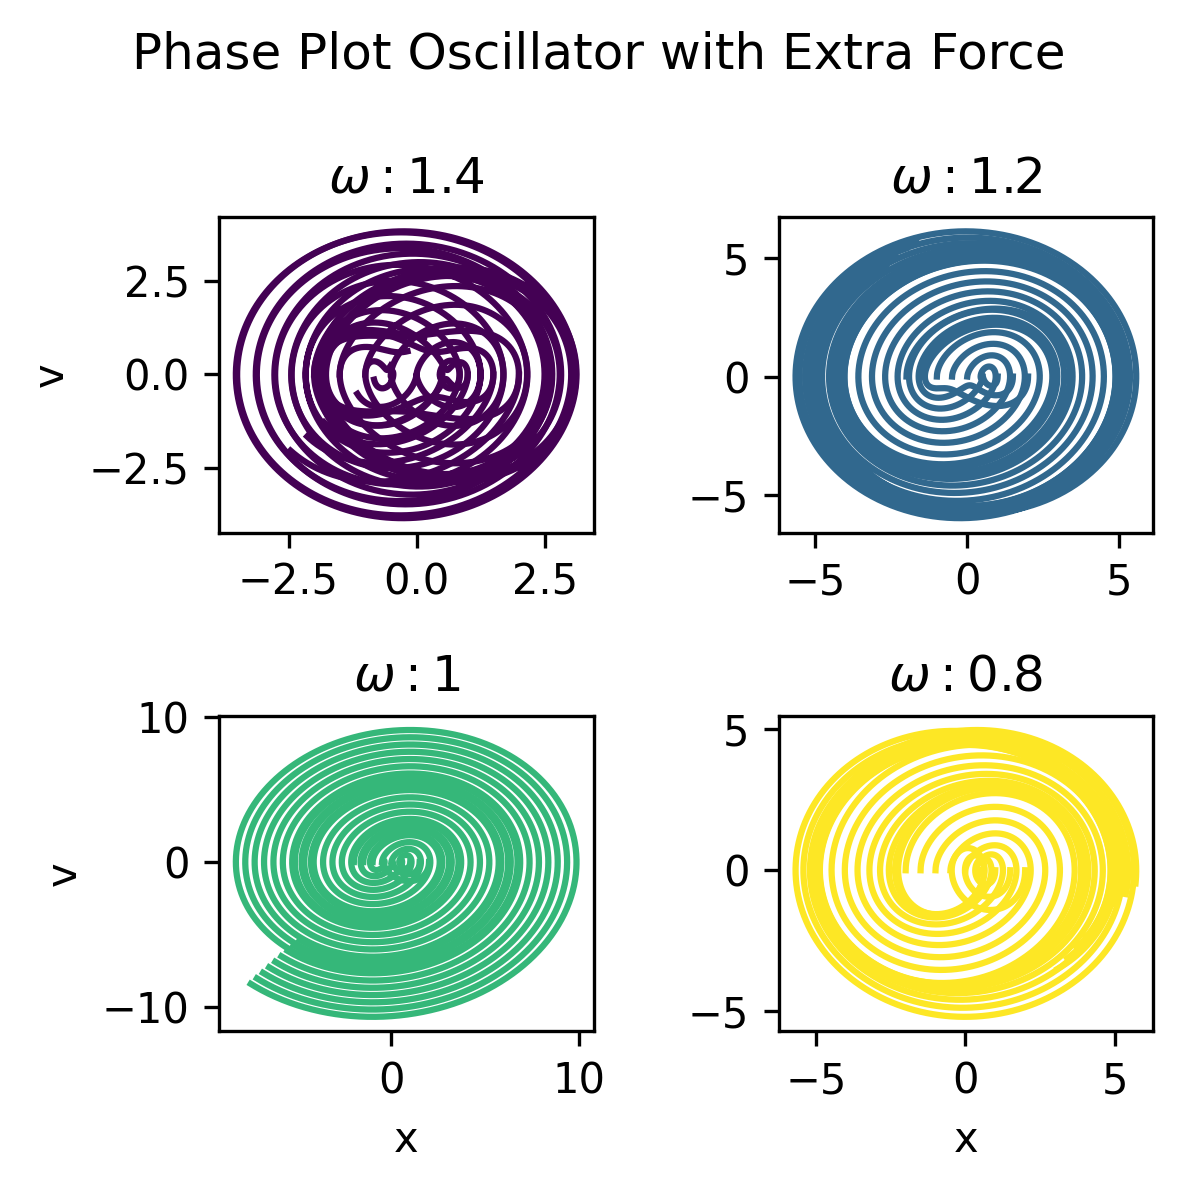
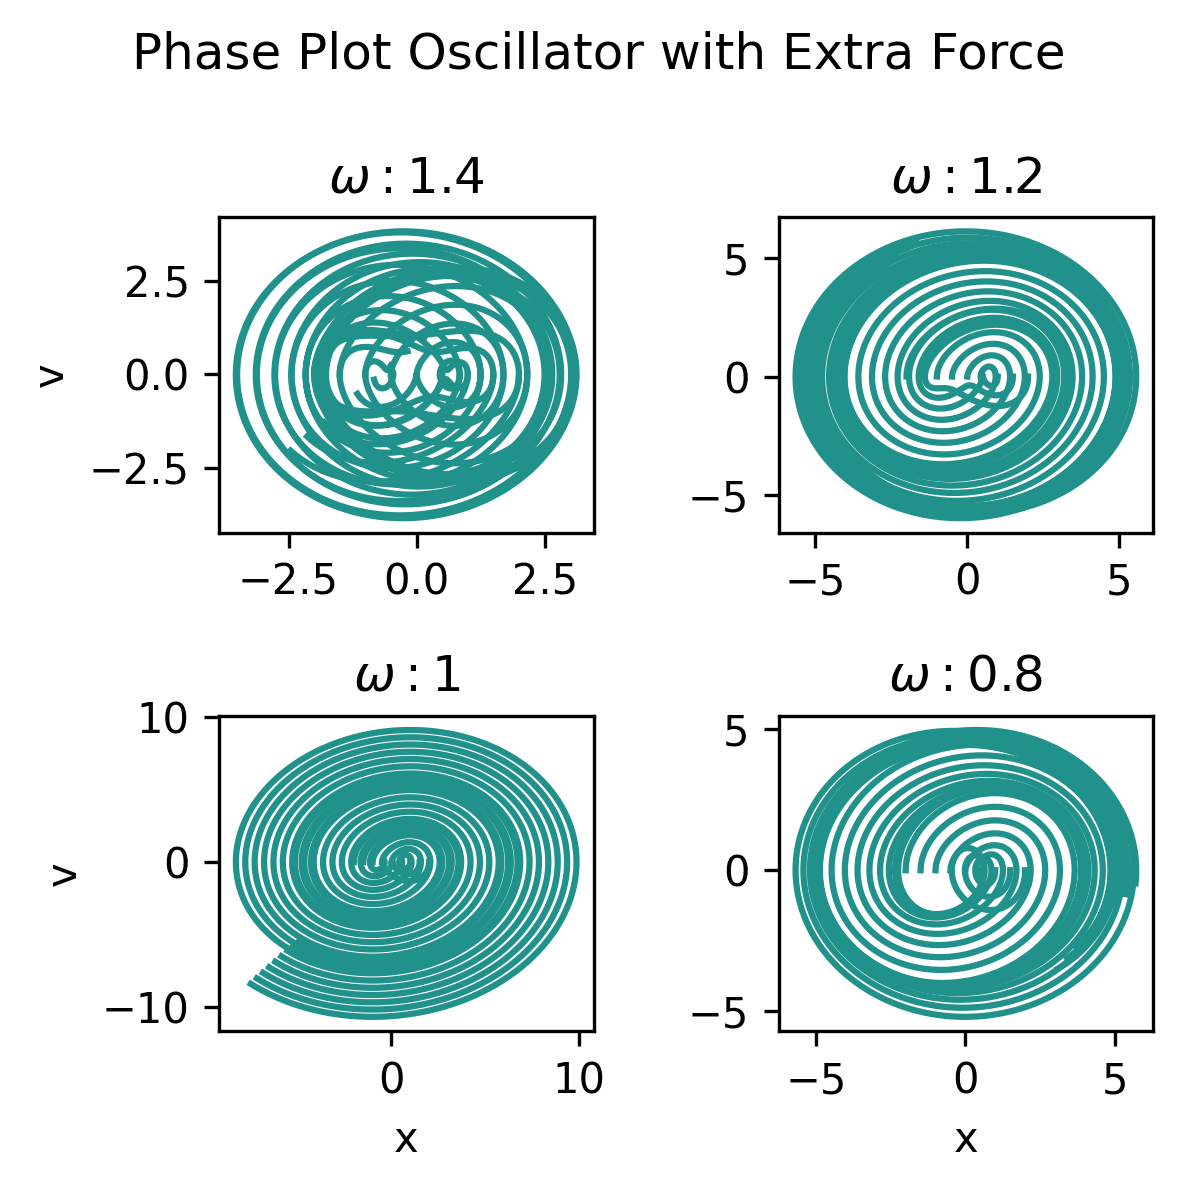
changed plots bonus

diff --git a/src/visualizations.py b/src/visualizations.py
@@ -282,7 +282,7 @@ def vis_harmonic_oscillator(data_per_k):
             - all_xs (list): List of computed spatial values
             - all_vs (list): List of computed velocities, corresponding with spatial value
     """
-    plt.figure(figsize=(3.5, 4))
+    plt.figure(figsize=(4, 4))
 
     ks = list(data_per_k.keys())
     colours = cm.viridis(np.linspace(0, 1, len(ks)))
@@ -291,7 +291,7 @@ def vis_harmonic_oscillator(data_per_k):
 
     plt.xlabel("x")
     plt.ylabel("v")
-    plt.title("Harmonic Oscillator")
+    plt.title("Spring Harmonic Oscillator")
     plt.legend(loc='center left', bbox_to_anchor=(1, 0.5)) # legend placed outside of plot
     plt.savefig("plots/harmonic_oscillator.png", dpi=300, bbox_inches="tight")
     plt.show()
@@ -311,9 +311,9 @@ def vis_phase_oscillator(data_per_freq, freqs):
     fig, axs = plt.subplots(2, 2, figsize=(4, 4), sharey=False, sharex=False)
     axs = axs.flatten()
 
-    colours = cm.viridis(np.linspace(0, 1, len(freqs)))
+    colour = cm.viridis(0.5)
 
-    for i, (freq, colour) in enumerate(zip(freqs, colours)):
+    for i, freq in enumerate(freqs):
         for (all_xs, all_vs) in data_per_freq[freq]:
             axs[i].plot(all_xs, all_vs, color=colour)
         
